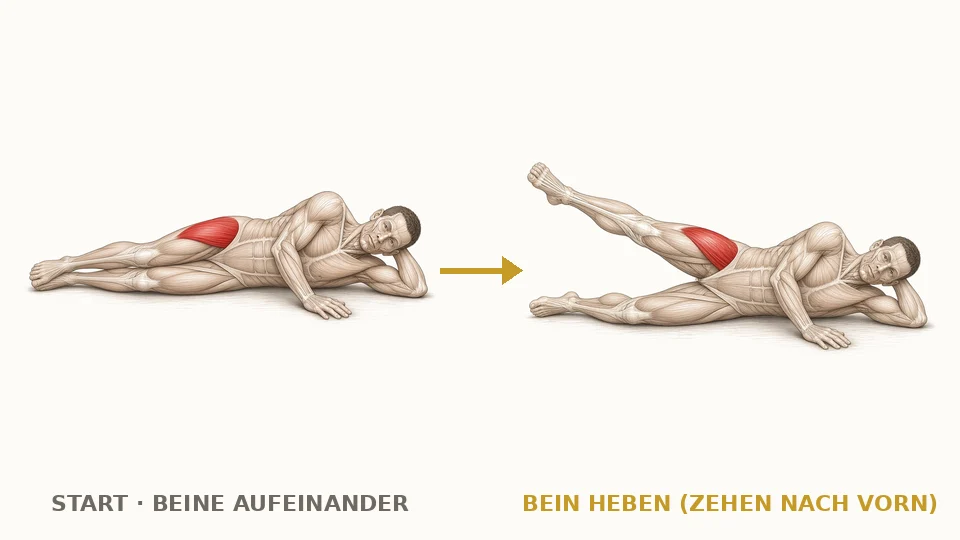
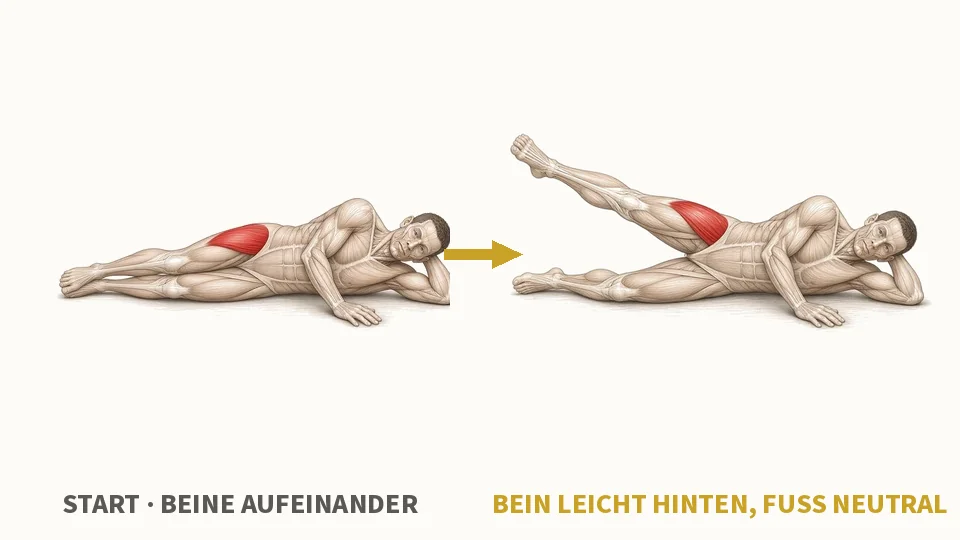
Update 2026-11-17

Changed region(s): [[0.0312, 0.237, 0.9688, 0.6519], [0.5, 0.9185, 1.0, 0.9481], [0.0312, 0.9185, 0.4375, 0.9481]]

diff --git a/mobility.js b/mobility.js
@@ -1,4 +1,4 @@
-/* Voccola Gym Log – Hüft-Beweglichkeit (v1.8.9: HipFit-Bilder korrigiert, Dosierungen nach Video, Stopp Einklemmen, Gym/Alltag + MRT-Fragen bis zum MRT). Eigene Daten in localStorage 'vgl-mob', berührt Trainingsdaten nicht. */
+/* Voccola Gym Log – Hüft-Beweglichkeit (v1.9.0: HipFit + Seitlage-Abduktion, Gluteus-medius-Seitstütz, einbeinige Brücke; Pause bis nach MRT; Schmerz-Ampel; Alltag/Schlaf/Gym; MRT-Fragen LCE/Torsion/Zweitmeinung). Eigene Daten in localStorage 'vgl-mob', berührt Trainingsdaten nicht. */
 'use strict';
 (function () {
 const KEY = 'vgl-mob';
@@ -85,7 +85,7 @@ const EX = [
     err: ['Knie auf den Boden zwingen', 'Rundrücken / zusammensacken', 'Knie verdrehen statt aus der Hüfte rotieren'] },
   { id: 'hipflex', core: 1, n: 'Aktiver Hüftbeuger-Stretch im Ausfallschritt', sub: 'Becken nach vorn schieben & lösen · Gesäß aktiv', dose: '20 Wdh. pro Seite', t: 'reps', sets: 1, reps: 20, ps: true,
     steps: ['Großer Ausfallschritt: hinteres Knie auf einer weichen Unterlage (oder Bein lang), vorderer Fuß flach, Oberkörper aufrecht, Hände an die Hüfte.', 'Gesäß der hinteren Seite fest anspannen und das Becken leicht nach hinten kippen (Schambein Richtung Bauchnabel).', 'Becken ruhig nach vorn schieben, bis vorne in der Hüfte/Leiste ein Ziehen kommt – dann wieder lösen (zurücknehmen).', '20 langsame Wiederholungen, dann Seite wechseln.'],
-    cues: ['Erst Po anspannen und Becken aufrichten – dann schieben. Solange Strecken im Rücken zieht: weniger tief', 'Dehnung vorne an der Hüfte/Leiste des hinteren Beins', 'Rippen unten, Bauch leicht fest – nur die Hüfte bewegt sich', 'Kleine, fließende Bewegung ohne Schwung', 'Vorderes Knie über dem Fuß', 'Kribbeln, Ausstrahlung ins Bein oder einschießender Schmerz → Übung heute weglassen'],
+    cues: ['Erst Po anspannen und Becken aufrichten – dann schieben. Solange Strecken im Rücken zieht: weniger tief', 'Becken aufgerichtet, nur ein kurzer Weg – nicht weit in die Streckung', 'Dehnung vorne an der Hüfte/Leiste des hinteren Beins', 'Rippen unten, Bauch leicht fest – nur die Hüfte bewegt sich', 'Kleine, fließende Bewegung ohne Schwung', 'Vorderes Knie über dem Fuß', 'Kribbeln, Ausstrahlung ins Bein oder einschießender Schmerz → Übung heute weglassen'],
     err: ['Ins Hohlkreuz ausweichen statt Becken zu kippen', 'Zu weit nach vorn schieben – weniger ist mehr', 'Gesäß locker lassen', 'Wippen mit Schwung'] },
   { id: 'hamfloss', core: 1, n: 'Hamstring-Floss in Rückenlage', sub: 'Beinrückseite & Nervengleiten · ohne Vorbeugen', dose: '10 pro Seite, langsam', t: 'reps', sets: 1, reps: 10, ps: true,
     steps: ['Rückenlage, Kopf liegt ab. Ein Bein aufgestellt (Fuß am Boden), der Rücken bleibt flach.', 'Das andere Bein anheben, bis die Hüfte ca. 90° gebeugt ist. Oberschenkel mit beiden Händen (oder Gurt/Handtuch) hinten halten, Knie gebeugt.', 'Knie langsam strecken, bis hinten am Oberschenkel ein sanfter Zug kommt – dann wieder beugen.', 'Ca. 2–3 s pro Richtung, 10× pro Seite. Optional: Fuß beim Strecken anziehen, beim Beugen locker lassen.'],
@@ -166,12 +166,12 @@ const EVE = [
     err: ['Stechender Schmerz → sofort abbrechen', 'Luft anhalten', 'Hohlkreuz beim Drücken'] },
   { id: 'psoasreset', core: 1, eve: 1, n: 'Psoas-Reset an der Wand (links betont)', sub: 'Abend · Hüftbeuger/Psoas lösen, Becken links zurückdrehen', dose: '1 Satz · 5–10 tiefe Atemzüge', t: 'reps', sets: 1, reps: 10,
     steps: ['Rückenlage, Füße flach an der Wand, Hüfte und Knie je 90°. Faszienrolle zwischen die Oberschenkel klemmen, Kinn locker zur Decke.', 'Fersen an der Wand nach unten ziehen, ohne zu rutschen – der untere Rücken wird flach, die hinteren Oberschenkel spannen.', 'Spannung halten, linkes Knie sanft nach unten, rechtes Knie nach oben bewegen – die Rolle bleibt dabei eingeklemmt (aktiviert linke Hamstrings + Adduktoren, dreht das Becken links zurück).', '5–10 langsame Bauchatmungen, dabei Spannung und Knieposition halten. Danach lösen und Beine ablegen.'],
-    cues: ['Unterer Rücken bleibt flach am Boden', 'Spannung kommt aus den hinteren Oberschenkeln und der Innenseite – kein Ruck', 'Rolle die ganze Zeit eingeklemmt halten', 'Lange, ruhige Bauchatmung – nicht pressen'],
+    cues: ['Sanft arbeiten – keine große Kraft, nicht in den Schmerz', 'Unterer Rücken bleibt flach am Boden', 'Spannung kommt aus den hinteren Oberschenkeln und der Innenseite – kein Ruck', 'Rolle die ganze Zeit eingeklemmt halten', 'Lange, ruhige Bauchatmung – nicht pressen'],
     err: ['Fersen rutschen an der Wand ab', 'Hohlkreuz statt flachem Rücken', 'Rolle fällt raus / wird nicht gehalten', 'Luft anhalten oder Schultern hochziehen'] },
   // v1.8.7: feste Abend-Übung, auch im Hexenschuss (rückenschonende Gesäßdehnung)
   { id: 'fig4', core: 1, eve: 1, n: 'Figure-4-Dehnung (Rückenlage)', sub: 'Abend · Gesäß/Piriformis, rückenschonend', dose: '2×30 s pro Seite', t: 'time', sets: 2, secs: 30, ps: true,
     steps: ['Rückenlage, Kopf und gesamter Rücken bleiben flach am Boden, Arme entspannt.', 'Den einen Knöchel auf das gegenüberliegende Knie legen (Figur 4), Fuß aktiv angezogen.', 'Mit beiden Händen hinter den Oberschenkel des unteren Beins greifen und beide Beine sanft Richtung Brust ziehen – nur so weit, dass es im Gesäß der oberen Seite dehnt.', '30 s ruhig atmen, langsam ablegen, Seite wechseln. 2 Runden pro Seite.'],
-    cues: ['Kein Ziehen im Rücken – nur Dehnung im Gesäß', 'Kopf und Rücken bleiben am Boden, nicht einrollen', 'Ruhig atmen, mit der Ausatmung etwas tiefer loslassen', 'Bei Kribbeln oder ausstrahlendem Schmerz abbrechen'],
+    cues: ['Nur schmerzfrei, kein Druck am Endpunkt', 'Kein Ziehen im Rücken – nur Dehnung im Gesäß', 'Kopf und Rücken bleiben am Boden, nicht einrollen', 'Ruhig atmen, mit der Ausatmung etwas tiefer loslassen', 'Bei Kribbeln oder ausstrahlendem Schmerz abbrechen'],
     err: ['Kopf oder Schultern anheben / Rücken einrollen', 'Am Knie statt am Oberschenkel ziehen', 'In den Schmerz oder ins Ziehen im Rücken gehen', 'Kribbeln oder Ausstrahlung ignorieren'] },
   { id: 'kniefersenrock', core: 1, eve: 1, n: 'Kniestand-Fersensitz-Rock (links betont)', sub: 'Abend · Hüfte, Lenden & Rücken lang ziehen, links betont', dose: '5 Wdh × 20 s halten · links 1–2 mehr', t: 'time', sets: 6, setsL: 6, setsR: 5, secs: 20, ps: true,
     steps: ['Vierfüßlerstand, Zehen aufgestellt bzw. Fußrücken am Boden.', 'Das Gesäß langsam Richtung Fersen nach hinten schieben.', 'Arme lang nach vorn strecken, Rücken lang lassen.', '20 s halten, ruhig ausatmen. 5 Wiederholungen – links 1–2 mehr (6–7), da es links stark zieht und rechts gut geht.'],
@@ -222,7 +222,7 @@ const ROT = [
     err: ['Ruckartig ziehen', 'Langes Bein hebt mit ab', 'Kopf zum Knie heben'] },
   { id: 'recpig', rot: 1, n: 'Liegende Taube (Figur 4)', sub: 'Abwechslung · Gesäß/Piriformis', dose: '30 s pro Seite, links 40 s', t: 'time', sets: 1, secs: 30, secsL: 40, secsR: 30, ps: true,
     steps: ['Rückenlage, beide Knie gebeugt, Füße am Boden.', 'Linken Knöchel auf das rechte Knie legen (Figur 4), Fuß aktiv angezogen.', 'Mit beiden Händen hinter den rechten Oberschenkel greifen und ihn sanft zu dir ziehen.', 'Links 40 s, rechts 30 s halten, ruhig atmen.'],
-    cues: ['Dehnung im Gesäß der oberen Seite, nicht im Knie', 'Becken und Kopf bleiben am Boden', 'Links etwas länger – die steifere Seite', 'Kribbeln in den Zehen → weniger ziehen'],
+    cues: ['Nur schmerzfrei, kein Druck am Endpunkt', 'Dehnung im Gesäß der oberen Seite, nicht im Knie', 'Becken und Kopf bleiben am Boden', 'Links etwas länger – die steifere Seite', 'Kribbeln in den Zehen → weniger ziehen'],
     err: ['Becken hebt ab / rollt ein', 'Am Knie statt am Oberschenkel ziehen', 'Schultern verkrampfen'] },
   { id: 'halfhero', rot: 1, n: 'Halber Held', sub: 'Abwechslung · Oberschenkel vorne & Hüftbeuger', dose: '30 s pro Seite', t: 'time', sets: 1, secs: 30, ps: true,
     steps: ['Aufrecht sitzen, ein Bein lang nach vorn.', 'Das andere Bein nach hinten beugen, der Fuß liegt neben der Hüfte, Fußrücken am Boden.', 'Mit den Händen hinter dir abstützen und vorsichtig nur so weit zurücklehnen, wie es angenehm ist.', '30 s ruhig atmen, langsam aufrichten, Seite wechseln.'],
@@ -261,10 +261,6 @@ const ROT = [
     cues: ['Schmerzfrei, mittlere Intensität', 'Beide Seiten gleich', 'Oberkörper bleibt aufrecht', 'Kleine, kontrollierte Seitverschiebung – kein Schwung'],
     err: ['Oberkörper nach vorn kippen', 'Knie des gestreckten Beins nach innen fallen lassen', 'Zu weit / in den Schmerz schieben', 'Mit Schwung wippen'] },
   // v1.8.6: Bausteine für langes Stehen/Gehen (Leiter): seitliche Hüfte (Gluteus medius) + Waden/Fuß
-  { id: 'abduct', rot: 1, n: 'Seitliches Beinheben in Seitlage', sub: 'Abwechslung · seitliche Hüfte (Gluteus medius) · Becken stabil im Stand', dose: '2×12 pro Seite', t: 'reps', sets: 2, reps: 12, ps: true,
-    steps: ['Seitlage, Kopf auf dem unteren Arm, obere Hand vor der Brust am Boden. Unteres Bein leicht gebeugt.', 'Oberes Bein gestreckt in Verlängerung des Körpers, Zehen zeigen nach vorn (nicht zur Decke).', 'Bein langsam ca. 30–40° anheben – leicht nach hinten statt nach vorn –, 1 s halten.', 'Langsam ablegen. 12×, dann Seite wechseln, 2 Runden.'],
-    cues: ['Spüren: seitlich oben am Po, nicht vorne in der Leiste', 'Becken bleibt übereinander, nicht nach hinten rollen', 'Lieber niedrig und sauber als hoch', 'Kribbeln, Ausstrahlung ins Bein oder einschießender Schmerz → Übung weglassen'],
-    err: ['Bein zu hoch reißen → Becken kippt, Rücken arbeitet', 'Zehen zur Decke drehen', 'Bein nach vorn ziehen (Hüftbeuger statt Po)', 'Schwung'] },
   { id: 'calfraise', rot: 1, n: 'Wadenheben', sub: 'Abwechslung · Waden & Fuß · langes Stehen auf der Leiter', dose: '2×15, oben 1 s halten', t: 'reps', sets: 2, reps: 15,
     steps: ['Hüftbreit stehen, eine Hand leicht an Wand oder Türrahmen für das Gleichgewicht.', 'Aufrecht, Bauch leicht fest, Knie gestreckt (nicht durchgedrückt).', 'Langsam über den Fußballen hoch auf die Zehen drücken, oben 1 s halten.', 'In 2–3 s kontrolliert absenken. 15×, 2 Runden. Später: auf einer Stufe (Fersen unter Stufenhöhe) oder einbeinig.'],
     cues: ['Gewicht über dem Großzehenballen – Knöchel kippen nicht nach außen', 'Langsam runter ist der wichtige Teil', 'Körper bleibt aufrecht, kein Hohlkreuz', 'Hilft gegen schwere Beine und Fußermüdung beim langen Stehen'],
@@ -283,16 +279,32 @@ const RET = [
     cues: ['Dehnung vorn an der Hüfte bis in die Flanke', 'Oberkörper aufrecht'], err: ['Hohlkreuz', 'Zu tief nach vorn schieben'] }
 ];
 
-/* v1.8.8: Hüft-Reha (HipFit) Phase 1 – ab 18.11.2026, Ziel 3×/Woche, täglich optional.
-   Keine Duplikate von bridge / birddog / hipflex; abduct bleibt in der Abwechslung. */
-const STOP = 'Stopp bei: Leistenstechen, Einklemmen oder plötzlichem Blockieren mitten in der Bewegung, Instabilität links, Ausstrahlung oder Ziehen Richtung Steißbein – dann aufhören und beim Arzt ansprechen';
+/* v1.8.8/v1.9.0: Hüft-Reha (HipFit) Phase 1 – ab 18.11.2026, Ziel 3×/Woche, täglich optional.
+   Keine Duplikate von bridge / birddog / hipflex; abduct ist nach v1.9.0 in diesen Block verschoben. */
+const HIP_AMPEL = {
+  title: 'Schmerz-Ampel',
+  items: [
+    'Bis 3/10 ist okay, wenn du am nächsten Morgen wieder auf dem Ausgangsniveau bist.',
+    'Ziehen Richtung Steißbein ist nur ein Stopp, wenn es zunimmt.',
+    'Stopp bei: Leistenstechen, hartes Anstoßgefühl, Blockieren oder Einklemmen, Instabilität links oder Wegknicken, Ausstrahlung, Nachtschmerz, Hinken, schmerzhaftes Knacken (schmerzloses Knacken ist meist harmlos). Dann aufhören und beim Arzt ansprechen.'
+  ]
+};
+const STOP = HIP_AMPEL.items.join(' ');
 
 const HIP_ALLTAG = {
-  title: 'Gym & Alltag – bis zum MRT',
+  title: 'Alltag, Schlaf & Gym – bis zum MRT',
   items: [
+    'Schlaf: Rückenlage oder rechte Seite mit Kissen zwischen den Knien.',
+    'Nicht im Hüftstand stehen, keine überschlagenen Beine.',
+    'Tiefe Sitze und die Hocke meiden; bei Montagen knien mit Kniekissen.',
+    'Langes Stehen alle 20–30 Min auflockern. Einlage weiter tragen.',
+    'Radfahren mit etwas höherem Sattel.',
     'Keine harten Stoßbelastungen: keine Sprünge, kein Joggen auf hartem Boden, keine schweren Lasten tief in der Hüfte.',
     'Gut geeignet: Rad, Crosstrainer, Gehen, Schwimmen (kein Brustbeinschlag, lieber Kraul-Beine).',
-    'Bei Beinen und Hüfte lieber mehr Wiederholungen mit moderatem Gewicht als wenige schwere.'
+    'Bei Beinen und Hüfte lieber mehr Wiederholungen mit moderatem Gewicht als wenige schwere.',
+    'Gym: Beinpresse und Hackenschmidt max. ca. 90° Hüftbeugung, Knie nicht nach innen.',
+    'Abduktoren-Maschine und Hip Thrust okay, wenn schmerzfrei.',
+    'Keine Rotation unter Last. Schwere Seitbeugen weglassen.'
   ]
 };
 const HIP_MRT_Q = {
@@ -301,14 +313,23 @@ const HIP_MRT_Q = {
     'Ist die Verkalkung eine Verdichtung am Pfannendach, Kalk im Knorpel oder Labrum, oder ein freier Gelenkkörper?',
     'Wie ist der Knorpel an der Stelle – gibt es Knorpelschäden oder ein Knochenödem?',
     'Falls Kalk im Knorpel: Blutwerte beim Hausarzt (Calcium, Parathormon, Ferritin/Eisen, Magnesium, Phosphat)?',
-    'Ändert der Befund etwas am Training oder an der OP-Frage?'
+    'Ändert der Befund etwas am Training oder an der OP-Frage?',
+    'Normales MRT oder MR-Arthrografie / 3 Tesla?',
+    'Wurde die Torsion von Oberschenkel und Pfanne mitgemessen?',
+    'LCE-Winkel, Tönnis-Winkel, vordere Überdachung – echte oder grenzwertige Dysplasie?',
+    'Wie sind Labrum und Knorpel, welcher Tönnis-Grad?',
+    'Gibt es eine Cam-Form, wie ist der Alpha-Winkel (Mischform)?',
+    'Erklärt die Hüfte die Beschwerden in Rücken und Steißbein, oder die LWS mitbeurteilen?',
+    'Ab welchen Befunden wäre eine OP sinnvoll, und wie lange ist eine Trainingschance (3–6 Monate)?',
+    'Physio-Rezept mit Fokus Hüftstabilisation, Freigabe für Training und Arbeit?',
+    'Bei der OP-Frage eine Zweitmeinung in einem Zentrum für Hüftgelenkerhalt einholen?'
   ]
 };
 function hipAdviceHtml() {
   const ul = (a) => `<ul class="mob-ul">${a.map(x => `<li>${esc(x)}</li>`).join('')}</ul>`;
   return `<div class="sec-h muted small" style="margin:18px 2px 2px">◇ BIS ZUM MRT</div>
+    <div class="card mob-ampel"><h3 class="mob-h3">${esc(HIP_AMPEL.title)}</h3>${ul(HIP_AMPEL.items)}</div>
     <div class="card mob-alltag"><h3 class="mob-h3">${esc(HIP_ALLTAG.title)}</h3>${ul(HIP_ALLTAG.items)}</div>
-    <div class="card mob-note small"><b>Stoppzeichen:</b> ${esc(STOP)}</div>
     <div class="card mob-mrt"><h3 class="mob-h3">${esc(HIP_MRT_Q.title)}</h3>${ul(HIP_MRT_Q.items)}</div>`;
 }
 
@@ -342,9 +363,22 @@ const HIP = [
     yt: 'https://www.youtube.com/watch?v=qKQJMwesjnM',
     steps: ['Hüftbreiter Stand, Hände seitlich am Rumpf. Nur einen kleinen Ausfallschritt nach vorn – kurze Schrittstellung.', 'Beinachse: das vordere Knie zeigt in Richtung der Fußspitze. Vorderes Knie beugen und 5 Sekunden halten.', 'Die Ferse des hinteren Fußes bleibt am Boden, Becken gerade, Oberkörper aufrecht.', 'Spannung lösen, Knie wieder strecken. 10–15 Mal auf einer Seite, dann wechseln.'],
     cues: ['Nur wenn der untere Rücken ruhig bleibt', 'Kurze Schrittstellung, hintere Ferse bleibt unten', 'Vorderes Knie in Richtung Fußspitze, nicht nach innen', 'Becken gerade, Oberkörper aufrecht', STOP],
-    err: ['Lange Schrittstellung oder hintere Ferse hebt ab', 'Vorderes Knie fällt nach innen', 'Hohlkreuz oder Ziehen im unteren Rücken – dann heute weglassen', 'Wippen statt 5 s halten'] }
+    err: ['Lange Schrittstellung oder hintere Ferse hebt ab', 'Vorderes Knie fällt nach innen', 'Hohlkreuz oder Ziehen im unteren Rücken – dann heute weglassen', 'Wippen statt 5 s halten'] },
+  { id: 'abduct', hip: 1, core: 1, n: 'Seitlage-Abduktion', sub: 'Hüft-Reha · äußere Hüfte / Gluteus medius', dose: '3×10–15 pro Seite, 2 s halten', t: 'reps', sets: 3, reps: 15, ps: true,
+    steps: ['Seitlage, Kopf auf dem unteren Arm, obere Hand vor der Brust am Boden. Unteres Bein leicht gebeugt.', 'Oberes Bein gestreckt, leicht hinter der Körperlinie. Fußspitze neutral oder leicht nach unten, nicht zur Decke drehen.', 'Bein langsam anheben, 2 Sekunden halten, kontrolliert ablegen.', '10–15 Wiederholungen, dann Seite wechseln. 3 Sätze pro Seite.'],
+    cues: ['Bein leicht hinter der Körperlinie, nicht nach vorn', 'Fußspitze neutral oder leicht nach unten – nicht zur Decke', 'Becken bleibt übereinander, nicht nach hinten rollen', 'Lieber niedrig und sauber als hoch', STOP],
+    err: ['Bein zu hoch reißen → Becken kippt, Rücken arbeitet', 'Zehen zur Decke drehen', 'Bein nach vorn ziehen (Hüftbeuger statt Po)', 'Schwung'] },
+  { id: 'medplank', hip: 1, core: 1, n: 'Gluteus-medius-Seitstütz', sub: 'Hüft-Reha · Knie-Seitstütz, oberes Bein abheben', dose: '2×8–10 pro Seite, 2 s halten', t: 'reps', sets: 2, reps: 10, ps: true,
+    steps: ['Knie-Seitstütz: unterer Unterarm und unteres Knie am Boden, Hüfte anheben, Körper in einer Linie von Kopf bis Knie.', 'Das obere Bein langsam abheben, Fußspitze neutral, 2 Sekunden halten, kontrolliert ablegen – das Becken bleibt oben und nicht verdrehen.', '8–10 Wiederholungen, dann Seite wechseln. 2 Sätze.'],
+    cues: ['Knie-Seitstütz halten, dann das obere Bein abheben', 'Becken bleibt oben und zeigt nach vorn, nicht einknicken', 'Fußspitze neutral, keine Schwungbewegung', STOP],
+    err: ['Hüfte sackt ab oder dreht nach vorn', 'Oberes Bein mit Schwung reißen', 'In der Lende ein Hohlkreuz machen'] },
+  { id: 'slbridge', hip: 1, core: 1, n: 'Einbeinige Brücke', sub: 'Hüft-Reha · Gesäß, nur wenn beidbeinig schmerzfrei', dose: '2×8–10 pro Seite', t: 'reps', sets: 2, reps: 10, ps: true,
+    steps: ['Nur wenn die beidbeinige Brücke schmerzfrei gelingt.', 'Rückenlage, ein Fuß fest am Boden, das andere Bein strecken oder zur Decke halten.', 'Gesäß anspannen und das Becken heben, bis Schulter, Hüfte und Standknie eine Linie bilden – nicht überstrecken, kein Hohlkreuz.', 'Kurz halten, kontrolliert ablegen. 8–10 Wiederholungen, dann Seite wechseln. 2 Sätze.'],
+    cues: ['Nur wenn die beidbeinige Brücke schmerzfrei ist', 'Nicht überstrecken – Rippen unten, kein Hohlkreuz', 'Gewicht fest auf dem Standfuß, Becken bleibt waagrecht', STOP],
+    err: ['Überstrecken / Hohlkreuz', 'Becken kippt zur Seite', 'Trotz Schmerz in der beidbeinigen Brücke einbeinig weitermachen'] }
 ];
 const HIP2 = [
+
   { id: 'stepdown', hip: 1, locked: 1, n: 'Herabsteigen', sub: 'Hüft-Reha · HipFit · Phase 2', dose: '10–15 pro Seite', t: 'reps', sets: 1, reps: 15, ps: true,
     yt: 'https://www.youtube.com/watch?v=__zvHYMJYvk',
     steps: ['Seitlich auf einer Treppenstufe oder einem Stepper stehen. Bei Bedarf am Geländer festhalten oder Hände seitlich am Rumpf abstützen.', 'Oberkörper aufrecht. Ein Bein seitlich der Stufe absenken, bis die Ferse den Boden berührt – dazu das Standbein in Hüfte und Knie beugen.', 'Das gebeugte Bein auf der Stufe bleibt in der Beinachse. Sobald die Ferse den Boden berührt, wieder nach oben in die Ausgangsstellung drücken.', '10–15 Wiederholungen auf einer Seite, dann Seite wechseln.'],
@@ -365,10 +399,10 @@ const im = ex => ex.img || ex.id;
    Jeder Block hat feste Kern-Übungen (core: 1, täglich) + einen Wechsel-Pool. Aus dem Pool kommen pro Tag k Übungen,
    deterministisch nach Datum (Tag-Nr. × k mod Poolgröße → lückenlos, jede Übung kommt regelmäßig dran). */
 // v1.8.6: Morgen k=1 – 9 Kern-Übungen + 1 im Wechsel (World's Greatest Stretch / Bein über die Rolle), damit die Routine kurz bleibt
-const BLK = { m: { pool: EX, k: 1 }, w: { pool: ROT, k: 3 }, a: { pool: EVE, k: 3 }, f: { pool: FAS, k: 3 }, h: { pool: HIP, k: 6 } };
+const BLK = { m: { pool: EX, k: 1 }, w: { pool: ROT, k: 3 }, a: { pool: EVE, k: 3 }, f: { pool: FAS, k: 3 }, h: { pool: HIP, k: 9 } };
 // v1.8.6: Logik in MOBCORE.planIds (getestet) – pausierte Übungen (Hexenschuss bis 17.11.) fallen raus, zählen nicht im Zähler
 function lineup(b, key) { if (b === 'h' && !MOBCORE.hipOpen(key)) return []; const B = BLK[b]; return MOBCORE.planIds(B.pool, B.k, key).map(byId); }
-const pausedNow = b => BLK[b].pool.filter(e => MOBCORE.pauseInfo(e.id, tk()));
+const pausedNow = b => (b === 'a' ? [...BLK[b].pool, ...RET] : BLK[b].pool).filter(e => MOBCORE.pauseInfo(e.id, tk()));
 const pauseNote = b => { const p = pausedNow(b); return p.length ? `<div class="mob-pause muted small">⏸ ${p.map(e => esc(e.n)).join(', ')} – ${esc(MOBCORE.pauseInfo(p[0].id, tk()).label)}</div>` : ''; };
 const isRotToday = (e, b) => b !== 'w' && !e.core;
 const blockOf = e => e.hip ? 'h' : e.eve ? 'a' : e.fas ? 'f' : e.rot ? 'w' : (EX.includes(e) || MRET.includes(e)) ? 'm' : null;
@@ -489,7 +523,7 @@ function viewList() {
   const eDone = lineup('a', tk()).filter(e => d.today.done[e.id]).length;
   const fDone = FT.filter(e => d.today.done[e.id]).length;
   const hDone = lineup('h', tk()).filter(e => d.today.done[e.id]).length;
-  const nCore = b => BLK[b].pool.filter(e => e.core).length;
+  const nCore = b => BLK[b].pool.filter(e => e.core && !MOBCORE.pauseInfo(e.id, tk())).length;
   const st = (n, tot) => n >= tot ? '<span class="mob-st ok">✓ heute erledigt</span>' : n ? `<span class="mob-st part">${n}/${tot} · läuft</span>` : '<span class="mob-st">noch offen</span>';
   const hist = [...d.history].reverse().slice(0, 8).map(h => `<div class="mob-h"><span>${WD[fromKey(h.date).getDay()]} ${dateDE(h.date)}</span><span class="muted small">${h.note ? '📝 ' : ''}${h.done.filter(x => EX.some(e => e.id === x) || MRET.some(e => e.id === x)).length}/${planOf(h, 'm').length} Übungen${h.done.some(x => ROT.some(e => e.id === x)) ? ' · 🔄 Abwechslung' : ''}${h.done.some(x => [...EVE, ...RET].some(e => e.id === x)) ? ' · ☾ Abend' : ''}${h.done.some(x => FAS.some(e => e.id === x)) ? ' · ◎ Faszien' : ''}${h.done.some(x => HIP.some(e => e.id === x)) ? ' · ◇ HipFit' : ''}</span><button class="btn btn-ghost btn-sm" style="width:auto;padding:4px 10px;margin-left:6px" data-act="mobExp" data-date="${h.date}">Exportieren</button></div>`).join('') || '<div class="muted small">Noch keine Einheit – heute ist ein guter Tag zum Starten 🙂</div>';
   return {
@@ -648,5 +682,5 @@ function putSent(date, s) { try { const a = JSON.parse(localStorage.getItem(SKEY
 
 function fmtS(x) { return x >= 60 && x % 60 === 0 ? (x / 60) + ' min' : x >= 60 ? Math.floor(x / 60) + ':' + pad(x % 60) + ' min' : x + ' s'; }
 window.mobText = mobText; window.mobRep = mobRep;
-window.MOBDATA = { EX, ROT, EVE, FAS, MRET, HIP, HIP2, ALL, BLK, lineup, planOf, byId, hipWeekDone, hipDoneKeys, HIP_ALLTAG, HIP_MRT_Q, STOP }; // für Tests
+window.MOBDATA = { EX, ROT, EVE, FAS, MRET, HIP, HIP2, ALL, BLK, lineup, planOf, byId, hipWeekDone, hipDoneKeys, HIP_ALLTAG, HIP_MRT_Q, HIP_AMPEL, STOP }; // für Tests
 })();

diff --git a/sw.js b/sw.js
@@ -1,11 +1,11 @@
-/* Voccola Gym Log – Service Worker (v1.8.9: HipFit-Bilder + Alltag/MRT-Karten) */
-const CACHE = 'vgl-v1.8.9';
+/* Voccola Gym Log – Service Worker (v1.9.0: HipFit + MRT-Pause, Schmerz-Ampel, Alltag/Schlaf) */
+const CACHE = 'vgl-v1.9.0';
 const ASSETS = ['./', './index.html', './styles.css', './app.js', './mob-core.js', './mobility.js', './nutri-core.js', './nutrition.js', './mind-core.js', './mindset.js', './manifest.webmanifest',
   './icons/icon-192.png', './icons/icon-512.png', './icons/apple-touch-icon.png', './icons/icon-maskable-512.png', './assets/dumbbell.webp', './assets/vendor/zxing.min.js', './assets/keepawake.mp4',
   './assets/ex/b-guillotine.webp', './assets/ex/b-fly-schraeg-kabel.webp', './assets/ex/bauch-crunch-maschine.webp', './assets/ex/r-facepull.webp', './assets/ex/r-revfly.webp', './assets/ex/r-row-incline-kabel.webp', './assets/ex/r-row-trapez-schraeg-breit.webp', './assets/ex/s-presse-kabel-liegend.webp', './assets/ex/s-seitheben-kabel-einarm.webp', './assets/ex/s-seitheben-vorgebeugt.webp', './assets/ex/x1.webp', './assets/ex/x10.webp', './assets/ex/x11.webp', './assets/ex/x12.webp', './assets/ex/x13.webp', './assets/ex/x14.webp', './assets/ex/x15.webp', './assets/ex/x16.webp', './assets/ex/x17.webp', './assets/ex/x18.webp', './assets/ex/x19.webp', './assets/ex/x2.webp', './assets/ex/x20.webp', './assets/ex/x21.webp', './assets/ex/x22.webp', './assets/ex/x23.webp', './assets/ex/x24.webp', './assets/ex/x25.webp', './assets/ex/x26.webp', './assets/ex/x27.webp', './assets/ex/x28.webp', './assets/ex/x3.webp', './assets/ex/x4.webp', './assets/ex/x5.webp', './assets/ex/x6.webp', './assets/ex/x7.webp', './assets/ex/x8.webp', './assets/ex/x9.webp', 
   './assets/mob/catcow.webp', './assets/mob/hamwalk.webp', './assets/mob/hipflex.webp', './assets/mob/wgs.webp', './assets/mob/n9090.webp', './assets/mob/bridge.webp', './assets/mob/birddog.webp', './assets/mob/deadbug.webp', './assets/mob/tuer.webp', './assets/mob/kneel.webp', './assets/mob/pigeon.webp', './assets/mob/turtle.webp', './assets/mob/froll_g.webp', './assets/mob/froll_t.webp', './assets/mob/ballpir.webp', './assets/mob/duoball.webp', './assets/mob/shakti.webp', './assets/mob/pigeonq.webp', './assets/mob/rollbecken.webp', './assets/mob/rollschien.webp', './assets/mob/rollknie.webp',
   './assets/mob/seq_catcow.webp', './assets/mob/seq_hamwalk.webp', './assets/mob/seq_hipflex.webp', './assets/mob/seq_wgs.webp', './assets/mob/seq_n9090.webp', './assets/mob/seq_bridge.webp', './assets/mob/seq_birddog.webp', './assets/mob/seq_deadbug.webp', './assets/mob/seq_tuer.webp', './assets/mob/seq_kneel.webp', './assets/mob/seq_pigeon.webp', './assets/mob/seq_turtle.webp', './assets/mob/seq_froll_g.webp', './assets/mob/seq_froll_t.webp', './assets/mob/seq_ballpir.webp', './assets/mob/seq_duoball.webp', './assets/mob/seq_shakti.webp', './assets/mob/seq_pigeonq.webp', './assets/mob/seq_rollbecken.webp', './assets/mob/seq_rollschien.webp', './assets/mob/seq_rollknie.webp',
-  './assets/mob/rbutter.webp', './assets/mob/seq_rbutter.webp', './assets/mob/kneechest.webp', './assets/mob/seq_kneechest.webp', './assets/mob/recpig.webp', './assets/mob/seq_recpig.webp', './assets/mob/halfhero.webp', './assets/mob/seq_halfhero.webp', './assets/mob/sphinx.webp', './assets/mob/seq_sphinx.webp', './assets/mob/sphinxrot.webp', './assets/mob/seq_sphinxrot.webp', './assets/mob/sidehip.webp', './assets/mob/seq_sidehip.webp', './assets/mob/sideadd.webp', './assets/mob/seq_sideadd.webp', './assets/mob/bearrock.webp', './assets/mob/seq_bearrock.webp', './assets/mob/beckenreset.webp', './assets/mob/seq_beckenreset.webp', './assets/mob/psoasreset.webp', './assets/mob/seq_psoasreset.webp', './assets/mob/kniefersenrock.webp', './assets/mob/seq_kniefersenrock.webp', './assets/mob/armbeinwisch.webp', './assets/mob/seq_armbeinwisch.webp', './assets/mob/halbfrosch.webp', './assets/mob/seq_halbfrosch.webp', './assets/mob/seitausfall.webp', './assets/mob/seq_seitausfall.webp', './assets/mob/hipflexstand.webp', './assets/mob/seq_hipflexstand.webp', './assets/mob/hipwallrot.webp', './assets/mob/seq_hipwallrot.webp', './assets/mob/hipwallstep.webp', './assets/mob/seq_hipwallstep.webp', './assets/mob/hipwallrot_1.webp', './assets/mob/hipwallrot_2.webp', './assets/mob/hipwallrot_3.webp', './assets/mob/hipwallrot_4.webp', './assets/mob/hipwallstep_1.webp', './assets/mob/hipwallstep_2.webp', './assets/mob/hipwallstep_3.webp', './assets/mob/hipwallstep_4.webp', './assets/mob/couch.webp', './assets/mob/seq_couch.webp', './assets/mob/rolle.webp', './assets/mob/seq_rolle.webp', './assets/mob/warmwalk.webp', './assets/mob/seq_warmwalk.webp', './assets/mob/hamfloss.webp', './assets/mob/seq_hamfloss.webp', './assets/mob/sideplank.webp', './assets/mob/seq_sideplank.webp', './assets/mob/abduct.webp', './assets/mob/seq_abduct.webp', './assets/mob/calfraise.webp', './assets/mob/seq_calfraise.webp', './assets/mob/fig4.webp', './assets/mob/seq_fig4.webp', './assets/mob/rumpfrot.webp', './assets/mob/seq_rumpfrot.webp', './assets/mob/hipabdst.webp', './assets/mob/seq_hipabdst.webp', './assets/mob/wallsit.webp', './assets/mob/seq_wallsit.webp', './assets/mob/slbalance.webp', './assets/mob/seq_slbalance.webp', './assets/mob/sidewalk.webp', './assets/mob/seq_sidewalk.webp', './assets/mob/sidetap.webp', './assets/mob/seq_sidetap.webp', './assets/mob/smalllunge.webp', './assets/mob/seq_smalllunge.webp'];
+  './assets/mob/rbutter.webp', './assets/mob/seq_rbutter.webp', './assets/mob/kneechest.webp', './assets/mob/seq_kneechest.webp', './assets/mob/recpig.webp', './assets/mob/seq_recpig.webp', './assets/mob/halfhero.webp', './assets/mob/seq_halfhero.webp', './assets/mob/sphinx.webp', './assets/mob/seq_sphinx.webp', './assets/mob/sphinxrot.webp', './assets/mob/seq_sphinxrot.webp', './assets/mob/sidehip.webp', './assets/mob/seq_sidehip.webp', './assets/mob/sideadd.webp', './assets/mob/seq_sideadd.webp', './assets/mob/bearrock.webp', './assets/mob/seq_bearrock.webp', './assets/mob/beckenreset.webp', './assets/mob/seq_beckenreset.webp', './assets/mob/psoasreset.webp', './assets/mob/seq_psoasreset.webp', './assets/mob/kniefersenrock.webp', './assets/mob/seq_kniefersenrock.webp', './assets/mob/armbeinwisch.webp', './assets/mob/seq_armbeinwisch.webp', './assets/mob/halbfrosch.webp', './assets/mob/seq_halbfrosch.webp', './assets/mob/seitausfall.webp', './assets/mob/seq_seitausfall.webp', './assets/mob/hipflexstand.webp', './assets/mob/seq_hipflexstand.webp', './assets/mob/hipwallrot.webp', './assets/mob/seq_hipwallrot.webp', './assets/mob/hipwallstep.webp', './assets/mob/seq_hipwallstep.webp', './assets/mob/hipwallrot_1.webp', './assets/mob/hipwallrot_2.webp', './assets/mob/hipwallrot_3.webp', './assets/mob/hipwallrot_4.webp', './assets/mob/hipwallstep_1.webp', './assets/mob/hipwallstep_2.webp', './assets/mob/hipwallstep_3.webp', './assets/mob/hipwallstep_4.webp', './assets/mob/couch.webp', './assets/mob/seq_couch.webp', './assets/mob/rolle.webp', './assets/mob/seq_rolle.webp', './assets/mob/warmwalk.webp', './assets/mob/seq_warmwalk.webp', './assets/mob/hamfloss.webp', './assets/mob/seq_hamfloss.webp', './assets/mob/sideplank.webp', './assets/mob/seq_sideplank.webp', './assets/mob/abduct.webp', './assets/mob/seq_abduct.webp', './assets/mob/calfraise.webp', './assets/mob/seq_calfraise.webp', './assets/mob/fig4.webp', './assets/mob/seq_fig4.webp', './assets/mob/rumpfrot.webp', './assets/mob/seq_rumpfrot.webp', './assets/mob/hipabdst.webp', './assets/mob/seq_hipabdst.webp', './assets/mob/wallsit.webp', './assets/mob/seq_wallsit.webp', './assets/mob/slbalance.webp', './assets/mob/seq_slbalance.webp', './assets/mob/sidewalk.webp', './assets/mob/seq_sidewalk.webp', './assets/mob/sidetap.webp', './assets/mob/seq_sidetap.webp', './assets/mob/smalllunge.webp', './assets/mob/seq_smalllunge.webp', './assets/mob/medplank.webp', './assets/mob/seq_medplank.webp', './assets/mob/slbridge.webp', './assets/mob/seq_slbridge.webp'];
 self.addEventListener('install', e => {
   e.waitUntil(caches.open(CACHE).then(c => c.addAll(ASSETS.map(u => new Request(u, { cache: 'reload' })))).then(() => self.skipWaiting()));
 });

diff --git a/mob-core.js b/mob-core.js
@@ -1,4 +1,4 @@
-/* Voccola Gym Log – Hüft-Beweglichkeit: Export-Text + "nur Neues senden" (v1.8.4) + Tagesplan/Hexenschuss-Pause (v1.8.6, v1.8.7 +rumpfrot, v1.8.8 HipFit ab 18.11.). Reine Logik, getestet in tests/mob.test.js.
+/* Voccola Gym Log – Hüft-Beweglichkeit: Export-Text + "nur Neues senden" (v1.8.4) + Tagesplan/Pausen (v1.8.6–v1.9.0: Hexenschuss bis 17.11., MRT-Pause bis nach MRT / 2027-01-31, HipFit ab 18.11.). Reine Logik, getestet in tests/mob.test.js.
    rep = { head, blocks: [{ n, dn, tot, anyDone, items: [{ id, line }] }], note }
    sent (pro Tag) = { n: Anzahl Meldungen, ex: { id: gesendete Zeile }, blocks: [Blocknamen], note } */
 (function (root, factory) {
@@ -46,8 +46,17 @@
   function prune(all, keep = 14) { const ks = Object.keys(all || {}).sort(); const o = {}; ks.slice(-keep).forEach(k => { o[k] = all[k]; }); return o; }
 
   /* v1.8.6: Tagesplan + datumsbasierte Pausen (Hexenschuss). Schlüssel 'YYYY-MM-DD', bis einschließlich `until` pausiert. */
-  const PAUSES = [{ until: '2026-11-17', why: 'Hexenschuss', label: 'pausiert bis nach Di 17.11. (Hexenschuss)',
-    ids: ['wgs', 'rolle', 'sphinx', 'sphinxrot', 'halfhero', 'turtle', 'rollbecken', 'couch', 'duoball', 'rumpfrot'] }];
+  const PAUSES = [
+    { until: '2026-11-17', why: 'Hexenschuss', label: 'pausiert bis nach Di 17.11. (Hexenschuss)',
+      ids: ['wgs', 'rolle', 'sphinx', 'sphinxrot', 'halfhero', 'turtle', 'rollbecken', 'couch', 'duoball', 'rumpfrot'] },
+    /* v1.9.0: bis nach MRT (offen, zunächst bis 2027-01-31). FADIR (tiefe Beugung+Innenrotation+Adduktion)
+       oder erzwungene Streckung / Außenrotation. Konservativ geprüft: n9090 (90/90, hintere Hüfte in Beugung+IR),
+       kneel und hipflexstand (erzwungene Hüftstreckung wie Couch), halfhero (Streckung), hipwallrot (endgradige IR).
+       hipwallstep bleibt (kein Endgrad-Dehn, nur flache Rotationsbewegung). fig4/recpig bleiben mit Cue. */
+    { until: '2027-01-31', why: 'MRT', label: 'pausiert bis nach MRT',
+      ids: ['couch', 'pigeon', 'pigeonq', 'wgs', 'n9090', 'kneel', 'hipflexstand', 'halfhero', 'hipwallrot'] }
+  ];
+  const MRT_UNTIL = '2027-01-31';
   function pausedIds(key) { const o = new Set(); PAUSES.forEach(p => { if (key <= p.until) p.ids.forEach(i => o.add(i)); }); return o; }
   function pauseInfo(id, key) { return PAUSES.find(p => key <= p.until && p.ids.includes(id)) || null; }
   const dayNum = key => { const [y, m, d] = key.split('-').map(Number); return Math.floor(Date.UTC(y, m - 1, d) / 864e5); };
@@ -79,5 +88,5 @@
   }
 
   return { fullText, diffReport, markSent, prune, PAUSES, pausedIds, pauseInfo, dayNum, planIds,
-    HIP_START, HIP_TARGET, hipOpen, keyFromDayNum, weekStartKey, weekEndKey, hipWeekCount };
+    HIP_START, HIP_TARGET, hipOpen, keyFromDayNum, weekStartKey, weekEndKey, hipWeekCount, MRT_UNTIL };
 });

diff --git a/app.js b/app.js
@@ -1,6 +1,6 @@
 /* Voccola Gym Log – Vanilla JS, offline, keine Tracker. Daten bleiben im Browser (IndexedDB). */
 'use strict';
-const APP_VERSION = '1.8.9';
+const APP_VERSION = '1.9.0';
 
 /* ---------- Helpers ---------- */
 const $ = (s, r = document) => r.querySelector(s);
@@ -140,6 +140,7 @@ const INCLINE_FLY = { id: 'b-fly-schraeg-kabel', name: 'Schrägbank-Kabelfly in 
   elbowNote: 'Tennisarm: Ellenbogen weich halten, keine schweren Gewichte – lieber leichter, sauber und kontrolliert.' };
 /* v1.7.17: Arm-Bein-Wischübung in Bauchlage (diagonal) – Abwechslung-Rotationspool (ROT, jetzt 10 Übungen, 3/Tag), Bilder armbeinwisch.webp + seq_armbeinwisch.webp; alte Verläufe unverändert (rotForOld nutzt nur die ersten 9, am Ende angehängt) */
 /* v1.8.6: Morgen-Routine neu (Aufwärmen, Hamstring-Floss statt Hamstring-Walk, Seitstütz Knie), Hexenschuss-Pause bis 17.11., +Seitliches Beinheben, +Wadenheben – mobility.js/mob-core.js */
+/* v1.9.0: HipFit um Seitlage-Abduktion, Gluteus-medius-Seitstütz und einbeinige Brücke ergänzt; Pause bis nach MRT (Couch, Taube, WGS u. a.); Schmerz-Ampel; Alltag/Schlaf/Gym; MRT-Fragen zu LCE, Torsion, Zweitmeinung */
 /* v1.8.9: HipFit-Illustrationen korrigiert (Hüftabduktion, Wandrutschen 45–60°, Gleichgewicht seitlich an der Wand), Dosierungen nach Video, Stopp bei Einklemmen/plötzlichem Blockieren, Karten Gym/Alltag und MRT-Fragen bis zum MRT */
 /* v1.8.8: Hüft-Reha (HipFit) Phase 1 ab 18.11. – neuer optionaler Block, Ziel 3×/Woche (Hüftabduktion im Stehen, Wandrutschen, Einbeiniges Gleichgewicht, Seitwärts gehen, Seit-Tippen, kleine Ausfallschritte), Video zu jeder Übung, Export; Hexenschuss-Pausen enden wie geplant nach dem 17.11. */
 /* v1.8.7: Abend +Figure-4-Dehnung (Kern, auch im Hexenschuss), +Liegende Rumpfrotation im Wechsel (Pause bis 17.11.) */

diff --git a/styles.css b/styles.css
@@ -505,5 +505,6 @@ body.scan-open #tabs{visibility:hidden}
 .mob-locked{padding:10px 12px;margin:4px 0 8px;border-style:dashed;opacity:.85}
 
 .mob-alltag{border-color:rgba(212,175,55,.4);background:rgba(212,175,55,.06)}
+.mob-ampel{border-color:rgba(230,140,0,.45);background:rgba(230,140,0,.07)}
 .mob-mrt{border-color:rgba(255,255,255,.12)}
-.mob-alltag .mob-h3,.mob-mrt .mob-h3{margin-bottom:6px}
+.mob-alltag .mob-h3,.mob-mrt .mob-h3,.mob-ampel .mob-h3{margin-bottom:6px}
